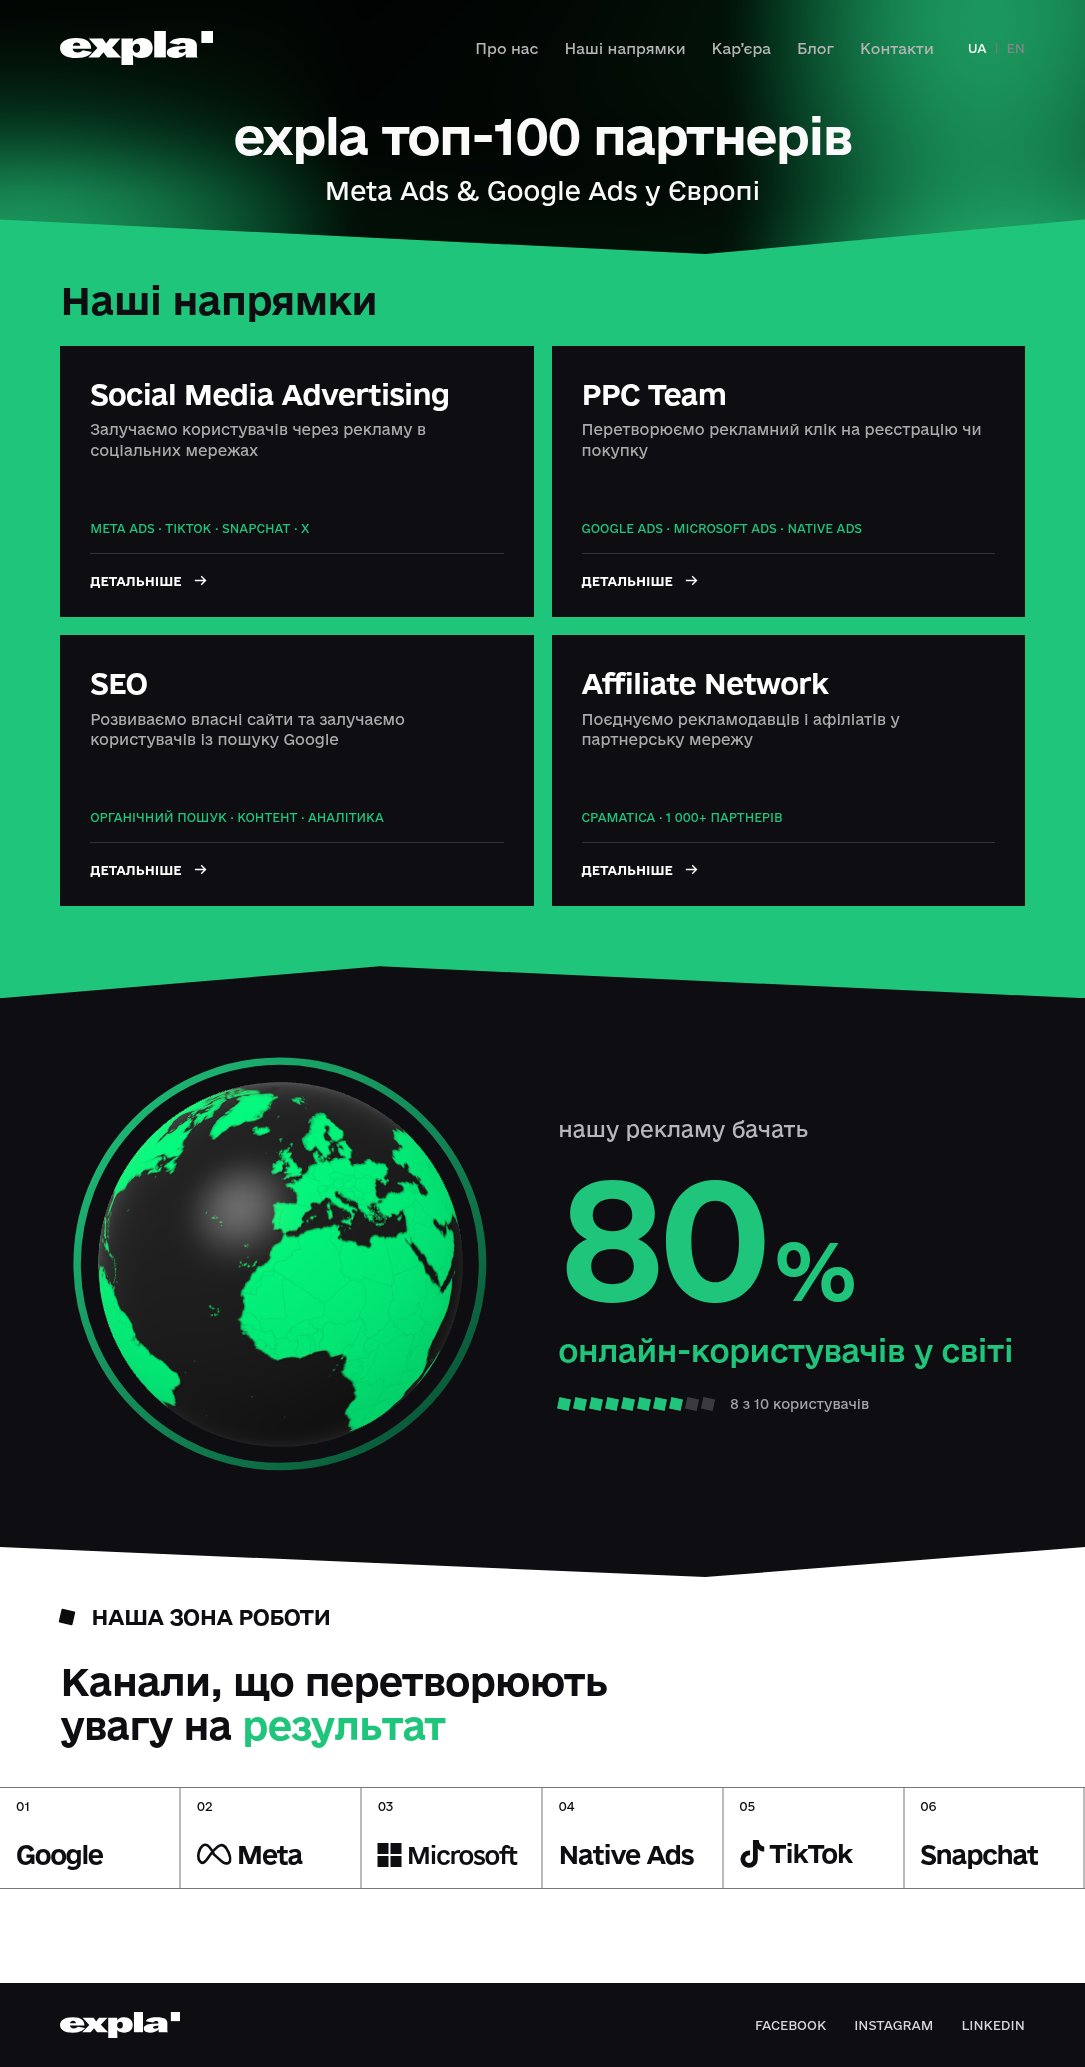
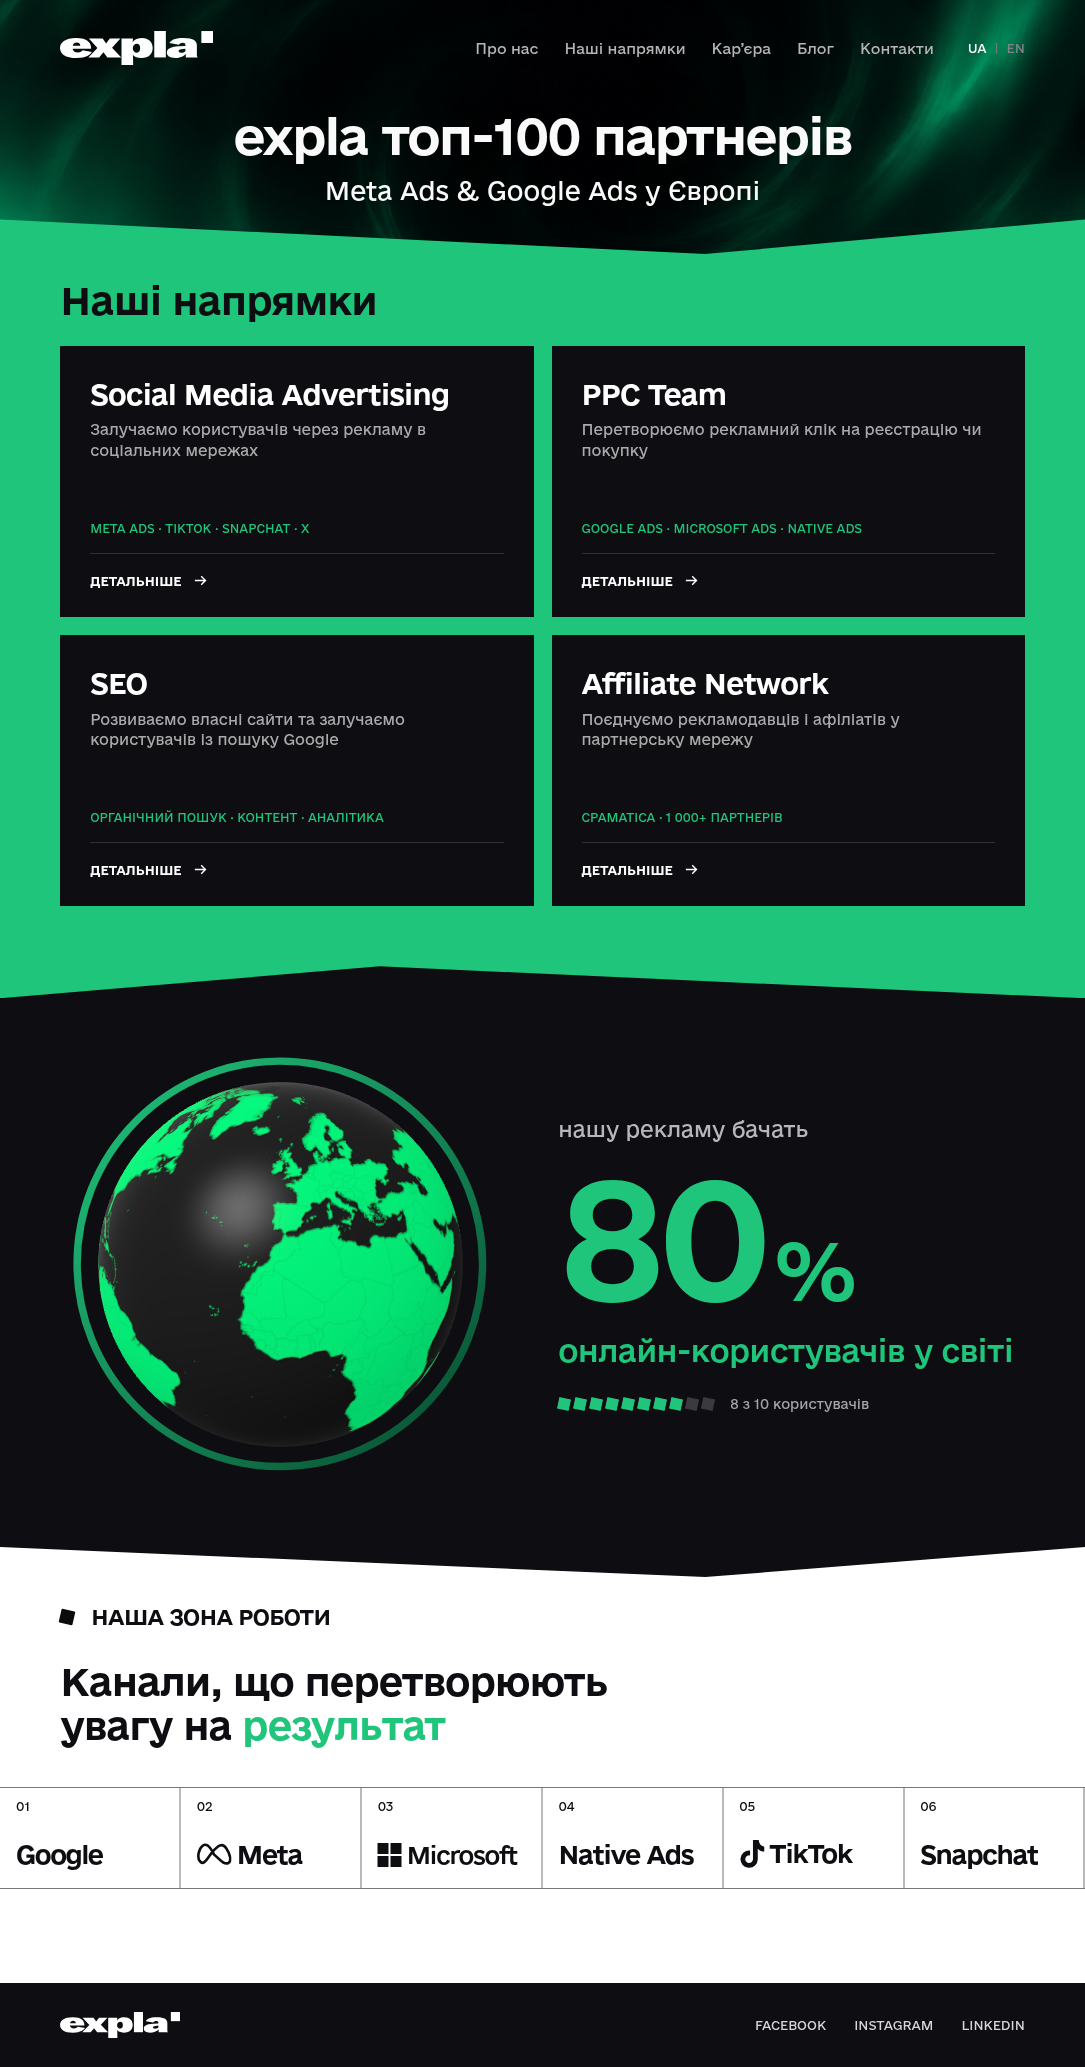
Animate the original uploaded TOP-100 background image

Changed region(s): [[0.6691, 0.0, 1.0, 0.1239], [0.0, 0.0619, 0.3041, 0.1239], [0.0, 0.0, 0.0304, 0.031]]

diff --git a/src/components/HeroBackground.jsx b/src/components/HeroBackground.jsx
@@ -1,5 +1,6 @@
 import React, { useEffect, useRef } from 'react';
 import * as THREE from 'three';
+import backgroundUrl from '../assets/top-100-background.png';
 
 export default function HeroBackground() {
   const mount = useRef(null);
@@ -7,17 +8,17 @@ export default function HeroBackground() {
     const host = mount.current, section = host.parentElement;
     const motion = matchMedia('(prefers-reduced-motion: reduce)');
     let renderer, geometry, material, frame = null, last = null, elapsed = 0, visible = true;
-    let activity = 0;
+    let activity = 0, texture, textureReady = false, disposed = false;
     const target = new THREE.Vector2(.5, .5);
     const schedule = () => { if (frame === null) frame = requestAnimationFrame(render); };
     const reset = () => { last = null; schedule(); };
     let resizeObserver, intersection;
     function render(time) {
       frame = null;
-      if (!visible || document.hidden || !renderer) { last = null; return; }
+      if (!visible || document.hidden || !renderer || !textureReady) { last = null; return; }
       const delta = last === null ? 0 : Math.min((time - last) / 1000, .1); last = time;
       if (!motion.matches) elapsed += delta;
-      material.uniforms.time.value = elapsed;
+      material.uniforms.time.value = motion.matches ? 0 : elapsed;
       if (motion.matches) {
         material.uniforms.pointer.value.set(.5, .5); material.uniforms.activity.value = 0;
       } else {
@@ -36,48 +37,33 @@ export default function HeroBackground() {
       renderer.setPixelRatio(Math.min(devicePixelRatio || 1, 1));
       renderer.domElement.setAttribute('aria-hidden', 'true'); host.appendChild(renderer.domElement);
       scene = new THREE.Scene(); camera = new THREE.Camera(); geometry = new THREE.PlaneGeometry(2, 2);
+      texture = new THREE.TextureLoader().load(backgroundUrl, () => {
+        if (disposed) return;
+        textureReady = true; reset();
+      });
+      texture.colorSpace = THREE.SRGBColorSpace;
       material = new THREE.ShaderMaterial({
-        uniforms: { brandColor: { value: new THREE.Color('#27C77C') }, time: { value: 0 }, aspect: { value: 1 }, pointer: { value: new THREE.Vector2(.5, .5) }, activity: { value: 0 } },
+        uniforms: { backgroundMap: { value: texture }, time: { value: 0 }, aspect: { value: 1 }, pointer: { value: new THREE.Vector2(.5, .5) }, activity: { value: 0 } },
         vertexShader: 'varying vec2 uvPosition; void main(){uvPosition=uv;gl_Position=vec4(position,1.0);}',
         fragmentShader: `
-          uniform float time, aspect, activity; uniform vec2 pointer; uniform vec3 brandColor;
+          uniform float time, aspect, activity;
+          uniform vec2 pointer;
+          uniform sampler2D backgroundMap;
           varying vec2 uvPosition;
-          float band(float distance, float width){
-            float d=distance/width; return exp(-d*d);
-          }
           void main(){
-            vec2 p=(uvPosition-.5)*vec2(aspect,1.0);
-            vec2 mouse=(pointer-.5)*vec2(aspect,1.0);
-            float radius=length(p-mouse);
-            float t=time*.42;
-            // Ambient movement has its own center; the cursor adds a local swirl.
-            float ambientAngle=sin(t*.55)*.055;
-            mat2 ambientTurn=mat2(cos(ambientAngle),-sin(ambientAngle),sin(ambientAngle),cos(ambientAngle));
-            p=ambientTurn*p;
-            float angle=activity*exp(-radius*radius*1.5)*sin(t*.8+radius*4.0)*1.5;
-            mat2 turn=mat2(cos(angle),-sin(angle),sin(angle),cos(angle));
-            p=mouse+turn*(p-mouse);
-            vec2 uv=p/vec2(aspect,1.0)+.5;
-            uv+=vec2(.025*sin(t*.8+uv.y*4.0),.018*sin(t*.6+uv.x*3.0));
-            // Wide, softly diffused waves: no fine contours or filament lines.
-            vec2 flowUv=uv+activity*(pointer-.5)*.18;
-            flowUv.x+=.055*sin(uv.y*4.0-t*.45);
-            flowUv.y+=.08*sin(uv.x*3.6+t*.55);
-            float rightCenter=.83+.10*sin(flowUv.y*4.0+t*.35);
-            float rightWave=band(flowUv.x-rightCenter,.19);
-            float lowerCenter=.13+.12*sin(flowUv.x*5.0-t*.45);
-            float lowerWave=band(flowUv.y-lowerCenter,.23);
-            float upperGlow=exp(-dot((flowUv-vec2(.77,.94))/vec2(.31,.49),
-              (flowUv-vec2(.77,.94))/vec2(.31,.49)));
-            float leftGlow=exp(-dot((flowUv-vec2(.08,.12))/vec2(.29,.40),
-              (flowUv-vec2(.08,.12))/vec2(.29,.40)));
-            float field=.48*rightWave+.33*lowerWave+.25*upperGlow+.16*leftGlow;
-            // Keep the text area nearly black throughout cursor distortion.
-            float edgeMask=smoothstep(.16,.48,abs(uvPosition.x-.5));
-            float readability=mix(.018,1.0,edgeMask);
-            float hover=1.0+activity*1.1*exp(-radius*2.0);
-            float intensity=clamp(field*readability*hover,0.0,.92);
-            gl_FragColor=vec4(mix(vec3(.0004,.0008,.0006),brandColor,intensity),1.0);
+            vec2 uv=uvPosition;
+            float t=time*.28;
+            // Zero distortion at t=0 preserves the uploaded image exactly.
+            vec2 drift=vec2(sin(t+uv.y*3.0)-sin(uv.y*3.0),
+              sin(t*.73+uv.x*4.0)-sin(uv.x*4.0))*.012;
+            vec2 offset=(uv-pointer)*vec2(aspect,1.0);
+            float influence=exp(-dot(offset,offset)*1.4);
+            vec2 swirl=vec2(-offset.y,offset.x)/vec2(aspect,1.0);
+            vec2 reactive=(swirl*.18+(pointer-.5)*.10)*activity*influence;
+            // Anchor the image edges so movement never reveals empty borders.
+            vec2 envelope=sin(uv*3.14159265);
+            uv+=(drift+reactive)*envelope;
+            gl_FragColor=vec4(texture2D(backgroundMap,uv).rgb,1.0);
             #include <colorspace_fragment>
           }
         `,
@@ -92,11 +78,12 @@ export default function HeroBackground() {
       resize();
     } catch { host.dataset.fallback = 'true'; renderer?.domElement.remove(); }
     return () => {
+      disposed = true; texture?.dispose();
       cancelAnimationFrame(frame); resizeObserver?.disconnect(); intersection?.disconnect();
       section.removeEventListener('pointermove', move); section.removeEventListener('pointerleave', leave); section.removeEventListener('pointercancel', leave);
       document.removeEventListener('visibilitychange', reset); motion.removeEventListener('change', reset);
       geometry?.dispose(); material?.dispose(); renderer?.dispose(); renderer?.domElement.remove();
     };
   }, []);
-  return <div className="hero-background" ref={mount} aria-hidden="true"/>;
+  return <div className="hero-background" ref={mount} style={{ backgroundImage: `url(${backgroundUrl})`, backgroundSize: '100% 100%' }} aria-hidden="true"/>;
 }

diff --git a/README.md b/README.md
@@ -36,7 +36,7 @@ The browser test uses `/usr/bin/chromium` if available. Otherwise run `npx playw
 
 Features with ISO alpha-3 codes `RUS` and `BLR` are absent from the shipped dataset and filtered again when rendering. They have no country fill or outlines. The sphere beneath remains uninterrupted. Included neighbors retain their own complete boundaries. No country labels are drawn. Ring winding is normalized for d3-geo before texture generation. All geography is served locally, without API keys or third-party runtime services.
 
-The appearance follows the globe PNGs supplied in chat on 2026-10-26. The globe uses the user-provided base colors `#03FA7F` (land) and `#212121` (sphere); lighting modifies the final pixels. The original uploaded logo SVG is installed; the supplied e-Ukraine fonts are self-hosted. The emerald masthead background follows the screenshot and remains a procedural reconstruction rather than an exported Figma asset. The surrounding ring, website content, and statistics live in `src/App.jsx`, separate from the globe component.
+The appearance follows the globe PNGs supplied in chat on 2026-10-26. The globe uses the user-provided base colors `#03FA7F` (land) and `#212121` (sphere); lighting modifies the final pixels. The original uploaded logo SVG is installed; the supplied e-Ukraine fonts are self-hosted. The emerald masthead uses the original uploaded Vector.png asset with subtle shader animation and stronger pointer distortion. The surrounding ring, website content, and statistics live in `src/App.jsx`, separate from the globe component.
 
 Ukraine includes Crimea and Sevastopol; [geography notes](docs/GEOGRAPHY.md) explain the corrected source assignment and regression checks.
 

diff --git a/docs/WEBSITE.md b/docs/WEBSITE.md
@@ -87,3 +87,5 @@ The latest TOP-100 shader uses a broad lower emerald arc, thin inner filaments, 
 The globe now uses a soft glossy studio highlight and restrained directional rim, with a stronger shaded coastline bevel, matching the earlier supplied glossy reference. The hero arcs have asymmetric flowing curvature and six fine animated filaments; idle motion and cursor interaction remain enabled.
 
 The current TOP-100 background replaces fine filament lines with broad diffused waves in the exact sRGB brand color `#27C77C` (converted to linear color for the shader). It animates on page load without pointer input; pointer movement adds stronger local distortion and brightness, then settles back to ambient drift. Reduced-motion preferences retain a static background.
+
+TOP-100 now uses the original `Vector.png` from the supplied ZIP, stored unchanged at `src/assets/top-100-background.png`. The shader samples this image without recoloring or procedural replacement. Distortion starts at zero and drifts slowly; pointer motion adds a local swirl. Edges stay anchored. Reduced motion displays the original undistorted image, and the same asset is the CSS loading/WebGL fallback.
